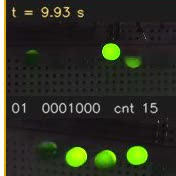
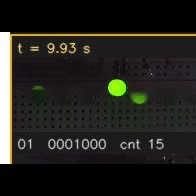
homepage previews: fix cut-off images + consistent square widths
- LED: the earlier crop sliced the '02' row and object-fit trimmed more. Replace
  with a COMPLETE decode panel (t=9.93s + LEDs + '01 0001000 cnt 15'), padded to
  a square with dark bars that blend into the panel — nothing clipped.
- Publications: crop the wide gformer figure to a square iris result
  (gformer-thumb.jpg; original gformer.png kept) so it matches the project
  thumbnails' width.
- CSS: all previews are now square -> one shared 108px column + object-fit:cover
  for BOTH Projects and Publications (consistent widths, no crop on square sources).
  Removed the pubs-specific 200px/contain override.

diff --git a/style.scss b/style.scss
@@ -196,14 +196,10 @@ span.highlight {
   inset: 0;
   width: 100%;
   height: 100%;
+  object-fit: cover;
   display: block;
   border-radius: 0;
 }
-// Square-ish project thumbnails fill via cover (square sources, no real crop).
-.projects .proj-thumb img { object-fit: cover; }
-// Wide paper figures: a wider column + contain so the whole figure shows, height-matched.
-.pubs .proj-img { flex-basis: 200px; }
-.pubs .proj-thumb img { object-fit: contain; }
 
 .project-meta {
   margin: 4px 0;